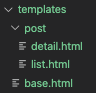
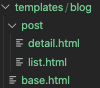
added list.html

diff --git a/mysite/blog/templates/blog/post/list.html b/mysite/blog/templates/blog/post/list.html
@@ -1,0 +1,23 @@
+{% extends "blog/base.html" %}
+
+{% block title %} My Blog {% endblock %}
+
+{% block content %}
+    <h1> My Blog! </h1>
+
+    {% for post in posts %}
+        <h2>
+            <a href = "{{ post.get_absolute_url }}">
+                {{ post.title }}
+            </a>
+        </h2>
+
+        <p class = "date">
+            Published {{ post.publish }} by {{ post.author }}
+        </p>
+
+        {{ post.body|truncatewords:30|linebreaks}}
+
+    {% endfor %}
+
+{%endblock%}

diff --git a/mysite/blog/templates/blog/base.html b/mysite/blog/templates/blog/base.html
@@ -3,7 +3,7 @@
 <html>
     <head>
         <title>{% block title %} {% endblock %} </title>
-        <link href = "{% statu "css/blog.css"%}" rel = "stylesheet">
+        <link href = "{% static "css/blog.css"%}" rel = "stylesheet">
     </head>
 
     <body>
@@ -11,7 +11,7 @@
         <div id = "content">
             {% block content %}
 
-            {% end block %}
+            {% endblock %}
 
         </div>
 

diff --git a/mysite/blog/models.py b/mysite/blog/models.py
@@ -1,6 +1,7 @@
 from django.db import models
 from django.utils import timezone # needed for timestamp of publish, created, & updated attributes
 from django.contrib.auth.models import User
+from django.urls import reverse
 
 # Create your models here.
 

diff --git a/mysite/blog/views.py b/mysite/blog/views.py
@@ -3,7 +3,7 @@ from .models import Post
 
 # Create your views here.
 def post_list(request):
-    posts = Post.pubished.all()
+    posts = Post.published.all()
     return render(request, 'blog/post/list.html', {'posts': posts})
 
 

diff --git a/README.MD b/README.MD
@@ -217,7 +217,7 @@ python manange.py startapp blog
 
     # Create your views here.
     def post_list(request):
-        posts = Post.pubished.all()
+        posts = Post.published.all()
         return render(request, 'blog/post/list.html', {'posts': posts})
 
 
@@ -281,6 +281,13 @@ python manange.py startapp blog
 - the `reverse` method allows URLs to be built using their name and also allows passing additional parameters
 
 - Add the following to `models.py`
+- import `reverse`
+
+    ~~~ py
+    from django.urls import reverse
+    ~~~
+
+- create `get_absolute_url` method to link to specific posts
 
     ~~~ py
 
@@ -293,6 +300,15 @@ python manange.py startapp blog
     
     ~~~
 
+#### Update the models
+- import `reverse`
+
+    ~~~ py
+    from django.urls import reverse
+    ~~~
+
+- 
+
 #### Create templates for the views    
 
 1) Set up the following folders and files inside the `blog` app
@@ -303,7 +319,7 @@ python manange.py startapp blog
 
 2) Create the `base.html` template
 
-- 
+- utilizes `static files`
 
     ~~~ html
     {% load static %}
@@ -311,7 +327,7 @@ python manange.py startapp blog
     <html>
         <head>
             <title>{% block title %} {% endblock %} </title>
-            <link href = "{% statu "css/blog.css"%}" rel = "stylesheet">
+            <link href = "{% static "css/blog.css"%}" rel = "stylesheet">
         </head>
 
         <body>
@@ -319,7 +335,7 @@ python manange.py startapp blog
             <div id = "content">
                 {% block content %}
 
-                {% end block %}
+                {% endblock %}
 
             </div>
 
@@ -333,3 +349,8 @@ python manange.py startapp blog
 
     </html>
     ~~~
+
+1) Create the `list.html`template
+
+- `extends` allows this template to inherit from the `base.html` file
+- 2 template filters are applied in the body of the post
